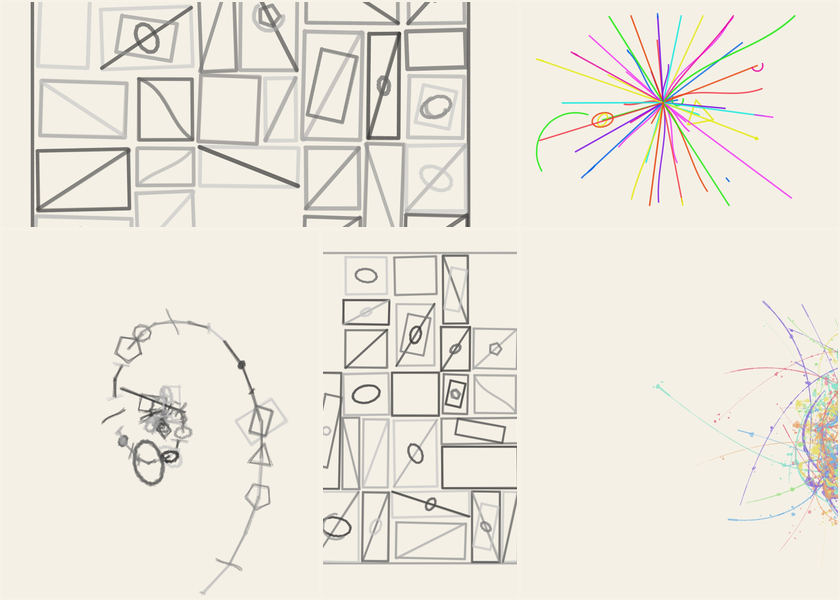
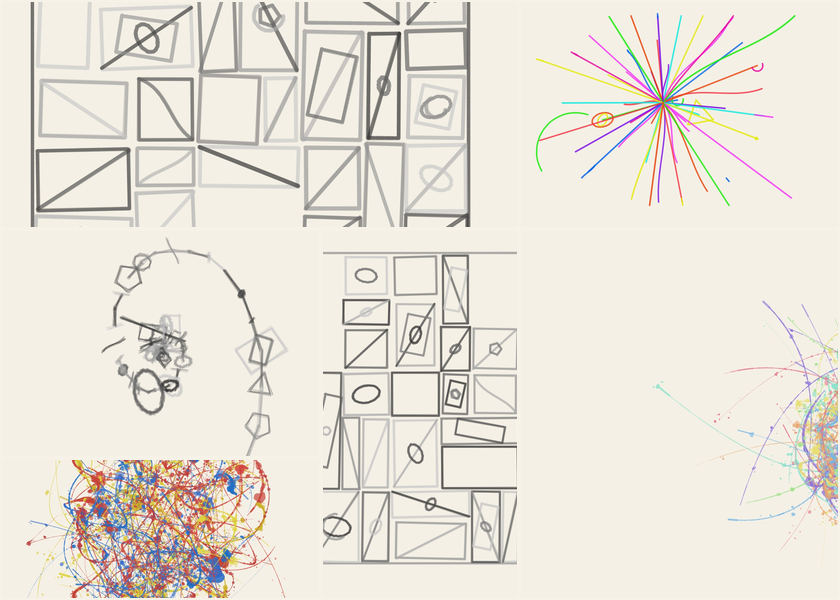
Archive ALGO ART gallery 2026-11-14

Changed region(s): [[0.031, 0.39, 0.3405, 1.0]]

diff --git a/gallery/2026-11-14/index.html b/gallery/2026-11-14/index.html
@@ -4,7 +4,7 @@
 <meta charset="utf-8">
 <meta name="viewport" content="width=device-width,initial-scale=1">
 <title>PROPORTION PIECE Daily Gallery — 14 November 2026 | Golden Ratio Generative Art</title>
-<meta name="description" content="5 drawings made on 14 November 2026. Different materials, different compositions, and room to make each one your own.">
+<meta name="description" content="6 drawings made on 14 November 2026. Different materials, different compositions, and room to make each one your own.">
 <meta name="robots" content="index,follow,max-image-preview:large">
 <link rel="canonical" href="https://southernadd-cmyk.github.io/algoart/gallery/2026-11-14/">
 <link rel="icon" type="image/svg+xml" href="../../favicon.svg">
@@ -16,16 +16,16 @@
 <meta property="og:type" content="website">
 <meta property="og:site_name" content="PROPORTION PIECE">
 <meta property="og:title" content="PROPORTION PIECE Daily Gallery — 14 November 2026 | Golden Ratio Generative Art">
-<meta property="og:description" content="5 drawings made on 14 November 2026. Different materials, different compositions, and room to make each one your own.">
+<meta property="og:description" content="6 drawings made on 14 November 2026. Different materials, different compositions, and room to make each one your own.">
 <meta property="og:url" content="https://southernadd-cmyk.github.io/algoart/gallery/2026-11-14/">
 <meta property="og:image" content="https://southernadd-cmyk.github.io/algoart/gallery/2026-11-14/2026-11-14-01-rects-AA-20261114-01-56270.jpg">
 <meta property="og:image:width" content="1400">
 <meta property="og:image:height" content="1000">
 <meta name="twitter:card" content="summary_large_image">
 <meta name="twitter:title" content="PROPORTION PIECE Daily Gallery — 14 November 2026 | Golden Ratio Generative Art">
-<meta name="twitter:description" content="5 drawings made on 14 November 2026. Different materials, different compositions, and room to make each one your own.">
+<meta name="twitter:description" content="6 drawings made on 14 November 2026. Different materials, different compositions, and room to make each one your own.">
 <meta name="twitter:image" content="https://southernadd-cmyk.github.io/algoart/gallery/2026-11-14/2026-11-14-01-rects-AA-20261114-01-56270.jpg">
-<script type="application/ld+json">{"@context":"https://schema.org","@type":"CollectionPage","name":"PROPORTION PIECE Daily Gallery — 14 November 2026","description":"5 drawings made on 14 November 2026. Different materials, different compositions, and room to make each one your own.","url":"https://southernadd-cmyk.github.io/algoart/gallery/2026-11-14/","isPartOf":{"@type":"WebSite","name":"PROPORTION PIECE","url":"https://southernadd-cmyk.github.io/algoart/"},"about":["generative art","algorithmic art","golden ratio","creative coding","digital marker art"],"mainEntity":{"@type":"ItemList","numberOfItems":5,"itemListElement":[{"@type":"ListItem","position":1,"item":{"@type":"VisualArtwork","name":"Recursive Divisions — Study 01","description":"Recursive Divisions generative marker artwork using seed AA-20261114-01-56270, 97% Additional φ pull, dry pen and the mono palette.","image":"https://southernadd-cmyk.github.io/algoart/gallery/2026-11-14/2026-11-14-01-rects-AA-20261114-01-56270.jpg","url":"https://southernadd-cmyk.github.io/algoart/?v=10&seed=AA-20261114-01-56270&mode=rects&el=45&den=39&cx=70&neg=24&phi=97&rec=5&spi=15&ga=94&nest=35&pen=dry&th=10&wob=27&od=2&op=77&pr=56&dry=28&curve=8&shape=53&overlap=29&rot=87&ln=1&ci=1&re=1&po=1&ar=1&pal=mono&cols=7&sat=75&bri=50&paper=%23f5f0e6&grain=18&sheet=phi","artform":"Generative digital marker art","artMedium":"Browser canvas and deterministic algorithm","creator":{"@type":"Organization","name":"PROPORTION PIECE","url":"https://southernadd-cmyk.github.io/algoart/"}}},{"@type":"ListItem","position":2,"item":{"@type":"VisualArtwork","name":"Radiant Systems — Study 02","description":"Radiant Systems generative marker artwork using seed AA-20261114-02-33889, 94% Additional φ pull, paint pen and the neon palette.","image":"https://southernadd-cmyk.github.io/algoart/gallery/2026-11-14/2026-11-14-02-burst-AA-20261114-02-33889.jpg","url":"https://southernadd-cmyk.github.io/algoart/?v=10&seed=AA-20261114-02-33889&mode=burst&el=50&den=49&cx=53&neg=30&phi=94&rec=8&spi=66&ga=94&nest=37&pen=paint&th=5&wob=25&od=2&op=65&pr=44&dry=30&curve=36&shape=49&overlap=38&rot=84&ln=1&ci=1&re=1&po=1&ar=1&pal=neon&cols=9&sat=67&bri=47&paper=%23f5f0e6&grain=16&sheet=phi","artform":"Generative digital marker art","artMedium":"Browser canvas and deterministic algorithm","creator":{"@type":"Organization","name":"PROPORTION PIECE","url":"https://southernadd-cmyk.github.io/algoart/"}}},{"@type":"ListItem","position":3,"item":{"@type":"VisualArtwork","name":"Golden Trajectories — Study 03","description":"Golden Trajectories generative marker artwork using seed AP-20261114-01-43797, 92% Additional φ pull, scribble pen and the mono palette.","image":"https://southernadd-cmyk.github.io/algoart/gallery/2026-11-14/2026-11-14-portrait-01-spiral-AP-20261114-01-43797.jpg","url":"https://southernadd-cmyk.github.io/algoart/?v=10&seed=AP-20261114-01-43797&mode=spiral&fmt=portrait&el=62&den=63&cx=57&neg=18&phi=92&rec=7&spi=90&ga=88&nest=58&pen=scribble&th=7&wob=40&od=5&op=69&pr=56&dry=40&curve=53&shape=49&overlap=39&rot=74&ln=1&ci=1&re=1&po=1&ar=1&pal=mono&cols=9&sat=87&bri=53&paper=%23f5f0e6&grain=17&sheet=phi","artform":"Generative digital marker art","artMedium":"Browser canvas and deterministic algorithm","creator":{"@type":"Organization","name":"PROPORTION PIECE","url":"https://southernadd-cmyk.github.io/algoart/"}}},{"@type":"ListItem","position":4,"item":{"@type":"VisualArtwork","name":"Recursive Divisions — Study 04","description":"Recursive Divisions generative marker artwork using seed AP-20261114-02-66178, 100% Additional φ pull, scribble pen and the mono palette.","image":"https://southernadd-cmyk.github.io/algoart/gallery/2026-11-14/2026-11-14-portrait-02-rects-AP-20261114-02-66178.jpg","url":"https://southernadd-cmyk.github.io/algoart/?v=10&seed=AP-20261114-02-66178&mode=rects&fmt=portrait&el=43&den=52&cx=57&neg=30&phi=100&rec=6&spi=28&ga=90&nest=30&pen=scribble&th=11&wob=57&od=3&op=64&pr=28&dry=10&curve=10&shape=72&overlap=55&rot=55&ln=1&ci=1&re=1&po=1&ar=1&pal=mono&cols=7&sat=77&bri=50&paper=%23f5f0e6&grain=23&sheet=phi","artform":"Generative digital marker art","artMedium":"Browser canvas and deterministic algorithm","creator":{"@type":"Organization","name":"PROPORTION PIECE","url":"https://southernadd-cmyk.github.io/algoart/"}}},{"@type":"ListItem","position":5,"item":{"@type":"VisualArtwork","name":"Golden Trajectories — Action Painting Study 05","description":"Golden Trajectories Action Painting using seed ACL-20261114-01-41856, the pastel palette and geometry-guided flowing paint.","image":"https://southernadd-cmyk.github.io/algoart/gallery/2026-11-14/2026-11-14-action-landscape-01-spiral-ACL-20261114-01-41856.jpg","url":"https://southernadd-cmyk.github.io/algoart/?v=10&seed=ACL-20261114-01-41856&mode=spiral&el=51&den=54&cx=60&neg=18&phi=88&rec=5&spi=53&ga=100&nest=62&pen=paint&th=13&wob=56&od=4&op=67&pr=41&dry=37&curve=31&shape=72&overlap=36&rot=65&ln=1&ci=1&re=1&po=1&ar=1&pal=pastel&cols=7&sat=92&bri=60&paper=%23f5f0e6&grain=27&material=action-v4&sheet=phi","artform":"Generative action painting","artMedium":"Browser canvas and deterministic algorithm","creator":{"@type":"Organization","name":"PROPORTION PIECE","url":"https://southernadd-cmyk.github.io/algoart/"}}}]}}</script>
+<script type="application/ld+json">{"@context":"https://schema.org","@type":"CollectionPage","name":"PROPORTION PIECE Daily Gallery — 14 November 2026","description":"6 drawings made on 14 November 2026. Different materials, different compositions, and room to make each one your own.","url":"https://southernadd-cmyk.github.io/algoart/gallery/2026-11-14/","isPartOf":{"@type":"WebSite","name":"PROPORTION PIECE","url":"https://southernadd-cmyk.github.io/algoart/"},"about":["generative art","algorithmic art","golden ratio","creative coding","digital marker art"],"mainEntity":{"@type":"ItemList","numberOfItems":6,"itemListElement":[{"@type":"ListItem","position":1,"item":{"@type":"VisualArtwork","name":"Recursive Divisions — Study 01","description":"Recursive Divisions generative marker artwork using seed AA-20261114-01-56270, 97% Additional φ pull, dry pen and the mono palette.","image":"https://southernadd-cmyk.github.io/algoart/gallery/2026-11-14/2026-11-14-01-rects-AA-20261114-01-56270.jpg","url":"https://southernadd-cmyk.github.io/algoart/?v=10&seed=AA-20261114-01-56270&mode=rects&el=45&den=39&cx=70&neg=24&phi=97&rec=5&spi=15&ga=94&nest=35&pen=dry&th=10&wob=27&od=2&op=77&pr=56&dry=28&curve=8&shape=53&overlap=29&rot=87&ln=1&ci=1&re=1&po=1&ar=1&pal=mono&cols=7&sat=75&bri=50&paper=%23f5f0e6&grain=18&sheet=phi","artform":"Generative digital marker art","artMedium":"Browser canvas and deterministic algorithm","creator":{"@type":"Organization","name":"PROPORTION PIECE","url":"https://southernadd-cmyk.github.io/algoart/"}}},{"@type":"ListItem","position":2,"item":{"@type":"VisualArtwork","name":"Radiant Systems — Study 02","description":"Radiant Systems generative marker artwork using seed AA-20261114-02-33889, 94% Additional φ pull, paint pen and the neon palette.","image":"https://southernadd-cmyk.github.io/algoart/gallery/2026-11-14/2026-11-14-02-burst-AA-20261114-02-33889.jpg","url":"https://southernadd-cmyk.github.io/algoart/?v=10&seed=AA-20261114-02-33889&mode=burst&el=50&den=49&cx=53&neg=30&phi=94&rec=8&spi=66&ga=94&nest=37&pen=paint&th=5&wob=25&od=2&op=65&pr=44&dry=30&curve=36&shape=49&overlap=38&rot=84&ln=1&ci=1&re=1&po=1&ar=1&pal=neon&cols=9&sat=67&bri=47&paper=%23f5f0e6&grain=16&sheet=phi","artform":"Generative digital marker art","artMedium":"Browser canvas and deterministic algorithm","creator":{"@type":"Organization","name":"PROPORTION PIECE","url":"https://southernadd-cmyk.github.io/algoart/"}}},{"@type":"ListItem","position":3,"item":{"@type":"VisualArtwork","name":"Golden Trajectories — Study 03","description":"Golden Trajectories generative marker artwork using seed AP-20261114-01-43797, 92% Additional φ pull, scribble pen and the mono palette.","image":"https://southernadd-cmyk.github.io/algoart/gallery/2026-11-14/2026-11-14-portrait-01-spiral-AP-20261114-01-43797.jpg","url":"https://southernadd-cmyk.github.io/algoart/?v=10&seed=AP-20261114-01-43797&mode=spiral&fmt=portrait&el=62&den=63&cx=57&neg=18&phi=92&rec=7&spi=90&ga=88&nest=58&pen=scribble&th=7&wob=40&od=5&op=69&pr=56&dry=40&curve=53&shape=49&overlap=39&rot=74&ln=1&ci=1&re=1&po=1&ar=1&pal=mono&cols=9&sat=87&bri=53&paper=%23f5f0e6&grain=17&sheet=phi","artform":"Generative digital marker art","artMedium":"Browser canvas and deterministic algorithm","creator":{"@type":"Organization","name":"PROPORTION PIECE","url":"https://southernadd-cmyk.github.io/algoart/"}}},{"@type":"ListItem","position":4,"item":{"@type":"VisualArtwork","name":"Recursive Divisions — Study 04","description":"Recursive Divisions generative marker artwork using seed AP-20261114-02-66178, 100% Additional φ pull, scribble pen and the mono palette.","image":"https://southernadd-cmyk.github.io/algoart/gallery/2026-11-14/2026-11-14-portrait-02-rects-AP-20261114-02-66178.jpg","url":"https://southernadd-cmyk.github.io/algoart/?v=10&seed=AP-20261114-02-66178&mode=rects&fmt=portrait&el=43&den=52&cx=57&neg=30&phi=100&rec=6&spi=28&ga=90&nest=30&pen=scribble&th=11&wob=57&od=3&op=64&pr=28&dry=10&curve=10&shape=72&overlap=55&rot=55&ln=1&ci=1&re=1&po=1&ar=1&pal=mono&cols=7&sat=77&bri=50&paper=%23f5f0e6&grain=23&sheet=phi","artform":"Generative digital marker art","artMedium":"Browser canvas and deterministic algorithm","creator":{"@type":"Organization","name":"PROPORTION PIECE","url":"https://southernadd-cmyk.github.io/algoart/"}}},{"@type":"ListItem","position":5,"item":{"@type":"VisualArtwork","name":"Golden Trajectories — Action Painting Study 05","description":"Golden Trajectories Action Painting using seed ACL-20261114-01-41856, the pastel palette and geometry-guided flowing paint.","image":"https://southernadd-cmyk.github.io/algoart/gallery/2026-11-14/2026-11-14-action-landscape-01-spiral-ACL-20261114-01-41856.jpg","url":"https://southernadd-cmyk.github.io/algoart/?v=10&seed=ACL-20261114-01-41856&mode=spiral&el=51&den=54&cx=60&neg=18&phi=88&rec=5&spi=53&ga=100&nest=62&pen=paint&th=13&wob=56&od=4&op=67&pr=41&dry=37&curve=31&shape=72&overlap=36&rot=65&ln=1&ci=1&re=1&po=1&ar=1&pal=pastel&cols=7&sat=92&bri=60&paper=%23f5f0e6&grain=27&material=action-v4&sheet=phi","artform":"Generative action painting","artMedium":"Browser canvas and deterministic algorithm","creator":{"@type":"Organization","name":"PROPORTION PIECE","url":"https://southernadd-cmyk.github.io/algoart/"}}},{"@type":"ListItem","position":6,"item":{"@type":"VisualArtwork","name":"Orbital Studies — Action Painting Study 06","description":"Orbital Studies Action Painting using seed ACP-20261114-01-06124, the primary palette and geometry-guided flowing paint.","image":"https://southernadd-cmyk.github.io/algoart/gallery/2026-11-14/2026-11-14-action-portrait-01-field-ACP-20261114-01-06124.jpg","url":"https://southernadd-cmyk.github.io/algoart/?v=10&seed=ACP-20261114-01-06124&mode=field&fmt=portrait&el=34&den=53&cx=76&neg=16&phi=99&rec=6&spi=25&ga=87&nest=35&pen=dry&th=12&wob=33&od=6&op=81&pr=55&dry=36&curve=14&shape=57&overlap=33&rot=76&ln=1&ci=1&re=1&po=1&ar=1&pal=primary&cols=9&sat=78&bri=48&paper=%23f5f0e6&grain=11&material=action-v4&sheet=phi","artform":"Generative action painting","artMedium":"Browser canvas and deterministic algorithm","creator":{"@type":"Organization","name":"PROPORTION PIECE","url":"https://southernadd-cmyk.github.io/algoart/"}}}]}}</script>
 </head>
 <body>
 <header class="algo-global-header">
@@ -38,9 +38,9 @@
   <section class="hero">
     <div class="kicker">DAILY ARCHIVE / 2026-11-14</div>
     <h1>Drawings from<br>14 November 2026.</h1>
-    <p>5 drawings made on 14 November 2026. Different materials, different compositions, and room to make each one your own.</p>
+    <p>6 drawings made on 14 November 2026. Different materials, different compositions, and room to make each one your own.</p>
     <p class="visit-day-link"><a href="../visit/?date=2026-11-14">Walk this floor in 3D →</a></p>
-    <div class="hero-meta"><span>5 drawings</span><span>Different materials</span><span>Each one can be revisited</span></div>
+    <div class="hero-meta"><span>6 drawings</span><span>Different materials</span><span>Each one can be revisited</span></div>
   </section>
   <section class="grid" aria-label="Artwork generated on 14 November 2026">
     
@@ -153,9 +153,31 @@
         </div>
       </div>
     </article>
+
+    <article id="2026-11-14-ACP01" class="art-card" data-orientation="portrait" data-material="action">
+      <a class="art-image-link" href="https://southernadd-cmyk.github.io/algoart/?v=10&amp;seed=ACP-20261114-01-06124&amp;mode=field&amp;fmt=portrait&amp;el=34&amp;den=53&amp;cx=76&amp;neg=16&amp;phi=99&amp;rec=6&amp;spi=25&amp;ga=87&amp;nest=35&amp;pen=dry&amp;th=12&amp;wob=33&amp;od=6&amp;op=81&amp;pr=55&amp;dry=36&amp;curve=14&amp;shape=57&amp;overlap=33&amp;rot=76&amp;ln=1&amp;ci=1&amp;re=1&amp;po=1&amp;ar=1&amp;pal=primary&amp;cols=9&amp;sat=78&amp;bri=48&amp;paper=%23f5f0e6&amp;grain=11&amp;material=action-v4&amp;sheet=phi" aria-label="Open and remix Orbital Studies — Action Painting Study 06 in PROPORTION PIECE">
+        <img src="2026-11-14-action-portrait-01-field-ACP-20261114-01-06124.jpg" width="1000" height="1400" loading="lazy" decoding="async" alt="Action painting from PROPORTION PIECE&#39;s Orbital Studies system, seed ACP-20261114-01-06124. Flowing paint skeins, irregular pools and splashes drawn from golden-ratio source geometry.">
+      </a>
+      <div class="art-info">
+        <div class="art-number">06</div>
+        <div>
+          <h2>Orbital Studies · Action Painting</h2>
+          
+          <dl>
+            <div><dt>Seed</dt><dd>ACP-20261114-01-06124</dd></div>
+            <div><dt>Series</dt><dd>Orbital Studies</dd></div>
+            <div><dt>Format</dt><dd>Portrait · 1000 × 1400</dd></div>
+            <div><dt>Additional φ pull</dt><dd>99%</dd></div>
+            <div><dt>Material</dt><dd>Action Painting</dd></div>
+            <div><dt>Palette</dt><dd>primary</dd></div>
+          </dl>
+          <a class="remix" href="https://southernadd-cmyk.github.io/algoart/?v=10&amp;seed=ACP-20261114-01-06124&amp;mode=field&amp;fmt=portrait&amp;el=34&amp;den=53&amp;cx=76&amp;neg=16&amp;phi=99&amp;rec=6&amp;spi=25&amp;ga=87&amp;nest=35&amp;pen=dry&amp;th=12&amp;wob=33&amp;od=6&amp;op=81&amp;pr=55&amp;dry=36&amp;curve=14&amp;shape=57&amp;overlap=33&amp;rot=76&amp;ln=1&amp;ci=1&amp;re=1&amp;po=1&amp;ar=1&amp;pal=primary&amp;cols=9&amp;sat=78&amp;bri=48&amp;paper=%23f5f0e6&amp;grain=11&amp;material=action-v4&amp;sheet=phi">Open this drawing →</a>
+        </div>
+      </div>
+    </article>
   </section>
   <section class="about">
-    <span class="section-no">06</span>
+    <span class="section-no">07</span>
     <div>
       <h2>THE SAME PROPORTION.<br>DIFFERENT MARKS.</h2>
       <p>The golden ratio helps arrange each drawing. The material changes how those arrangements feel. Open a piece to see its settings, then change whatever you like.</p>

diff --git a/gallery/index.html b/gallery/index.html
@@ -48,7 +48,7 @@
     
     <article class="day-card">
       <a href="./2026-11-14/">
-        <img src="./2026-11-14/archive-preview.jpg?v=2026-11-14-5" width="840" height="600" loading="eager" decoding="async" fetchpriority="high" onerror="this.onerror=null;this.src='./2026-11-14/2026-11-14-01-rects-AA-20261114-01-56270.jpg'" alt="Recursive Divisions mosaic showing the artworks from 14 November 2026">
+        <img src="./2026-11-14/archive-preview.jpg?v=2026-11-14-6" width="840" height="600" loading="eager" decoding="async" fetchpriority="high" onerror="this.onerror=null;this.src='./2026-11-14/2026-11-14-01-rects-AA-20261114-01-56270.jpg'" alt="Recursive Divisions mosaic showing the artworks from 14 November 2026">
         <div>
           <h2>14 November 2026</h2>
         </div>
